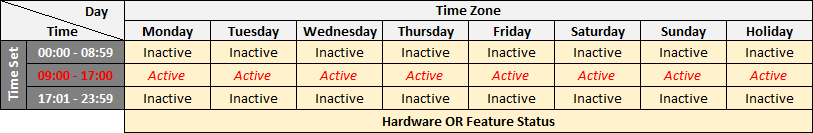
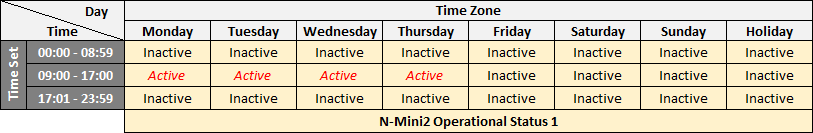
GitBook: [master] one page and 6 assets modified

diff --git a/time-set-and-time-zone/README.md b/time-set-and-time-zone/README.md
@@ -17,29 +17,17 @@ This section will cover the aspects of setting up Time Set and Time Zone. **Syst
 Time Set and Time Zone are two important settings within the Entrypass Platform1 Server System, where it will dictate the **'**_**daily**_ **time frame'** for operation on 'Feature' and 'Hardware' connected to the Control Panel. 
 
 * Time Zone: specify operational Day \(Monday to Sunday inc. Holiday\)
-* Time Set: specify operational Time \(minutes and hours\)
+* Time Set: specify operational Time \(Time Intervals in minutes and hours\)
 
-![Image 1](../.gitbook/assets/presentation2.png)
+![Image 1](../.gitbook/assets/presentation2%20%281%29.png)
 
-All 'Features' and 'Hardware' will be assigned and monitored with a Time Zone, by the Control Panel \(Image 1\). Each **Time Zone** \(e.g. TZ1\) will specify the **days** to operate while **within each day**, it will contain references to **Time Set** where it will specify the **time** to operate. 
-
-It is important to note that:
+All 'Features' and 'Hardware' will be assigned and monitored by the Control Panel \(Image 1\) using Time Zone. Each **Time Zone** \(e.g. TZ1\) will specify the **days** to operate while **within each day**, it will contain a reference to **Time Set** specifying the **time \(in intervals\)** to operate. Therefore, it is important to note that:
 
 {% hint style="danger" %}
-The Control Panel will monitor and operate all Features and Hardware connected **according to the Time Zone assigned to to each Feature or Hardware.** 
+The Control Panel will **TURN ON OR OFF**_**,**_ **all Features and Hardware connected according to Time Zone assigned.** 
 {% endhint %}
 
-In order for systeTo express the above statement in graphical format, refer to table below:
-
-Operation Time
-
-![Image 3](../.gitbook/assets/tstz3.png)
-
-**When a Hardware OR Feature is assigned with Time Zone from Image 2, it's DAILY active operating hours will be 09:00 to 17:00.** 
-
-\*\*\*\*
-
-## Explanation on Time Set and Time Zone parameters
+## Description on Time Set and Time Zone settings
 
 ### Time Set Settings
 
@@ -49,35 +37,74 @@ Operation Time
 2. **Description:** This is the column where you can input the description of a newly created Time Set.
 3. **Interval:** This column describes '**Time Range'.** The range can start from **00:00 \(12.00am\) to 23:59 \(11.59pm\)** while you can set up to 3 different time ranges' within a single Time Set. 
 
-Time Set comes with two default settings:
+Time Set comes with the following settings:
 
-{% hint style="info" %}
-* Time Set 0 = Not Active \(default and non-editable within the system\)
-* Time Set 1 = 24 Hours Active \(default and non-editable within the system\)
-* Time Set 2 and above = User configurable
-{% endhint %}
+| Time Set | Description | Status | Information |
+| :--- | :--- | :--- | :--- |
+| 0 | Not Active | Default | This is a default setting and not user configurable. **Any day in a Time Zone assigned with this Time Set will render that day 'not active '.**  |
+| 1 | 24 Hours Active | Default | This is a default setting and not user configurable. **Any day in a Time Zone assigned with this Time Set will render that day 'active at all times' \(ie. 24 hours a day\).** |
+| 2 and above | User Configurable | User Configurable | Time Set settings can only be configured by users from Time Set 2 onward. |
 
 ### Time Zone Settings
 
-![](../.gitbook/assets/time-zone-1.png)
+![](../.gitbook/assets/time-zone-1%20%281%29.png)
 
 1. **Name:** The name of Time Sets are numerical and automatically assigned when a new Time Set is created.
 2. **Description:** This is the column where you can input the description of a created Time Set.
 3. **Days:** This column describes **'Days' \(expressed in a single week\).** This range starts from **Monday to Sunday AND Public Holidays.** 
+4. **Time Set:** This section will contain references to Time Set which will dictate the operating hours for the system.
 
-Time Zone comes with two default settings:
+Time Zone comes with the following settings:
+
+| Time Zone | Description | Status | Information |
+| :--- | :--- | :--- | :--- |
+| 0 | Not Active | Default | This is a default setting and not user configurable. **Any Hardware or Feature assigned with this Time Zone will be rendered 'not active ' \(ie. Turned Off\).**  |
+| 1 | 24 Hours Active | Default | This is a default setting and not user configurable. **Any Hardware or Feature assigned with this Time Zone will be rendered 'active at all times' \(ie. 24 hours a day\).** |
+| 2 and above | User Configurable | User Configurable | Time Zone settings can only be configured by users from Time Zone 2 onwards. |
+
+## System at Work
+
+This section will demonstrate how Time Zone and Time Set working together to control operation day and time. The following steps will always apply when customising your day and time operational requirements for any Hardware or Feature.
 
 {% hint style="info" %}
-* Time Zone 0 = Not Active \(default and non-editable within the system\)
-* Time Zone 1 = 24 Hours Active \(default and non-editable within the system\)
-* Time Zone 2 & above = User configurable
+* STEP 1 \(Create Time Set\): Always create the required Time Set in the system and specify operational times.
+* STEP 2 \(Create Time Zone\): At the Time Zone section, you will specify what are the operational times for each day within the week.
+* STEP 3 \(Link Time Zone\): Go to any hardware or feature and link that feature to the Time Zone created to activate or customise its operational day and time.
 {% endhint %}
 
+### Scenario
+
+Consider a hypothetical scenario below for Hardware \(N-Mini2 Reader\) setting and its operation matrix.
+
+{% hint style="info" %}
+N-Mini2 reader operational requirements:
+
+* Operating Days: Monday - Friday \(excluding Saturday, Sunday and Holidays\)
+* Operating Time 1: 09:00 - 17:00 \(Monday - Thursday\)
+* Operating Time 2: 09:00 - 18:00 \(Friday\)
+{% endhint %}
+
+![](../.gitbook/assets/tstz3.png)
+
+![](../.gitbook/assets/tstz4.png)
+
+To achieve the operational requirements above, the Time Set and Time Zone settings will be as following:
+
+#### STEP 1 \(Create Time Set\)
+
+![](../.gitbook/assets/time-zone-2.png)
+
+As mentioned above, Time Set must be created in order to allow Time Zone to create a link \(reference\) to Time Set to obtain operational time. As there are two different operational times, then there will be a requirement to create two different sets of Time Set. One important note to remember is:
+
+{% hint style="info" %}
+Multiple
+{% endhint %}
+
+#### STEP 2 \(Create Time Zone\)
 
 
-## Infographic Illustration
 
-![](../.gitbook/assets/tstz.png)
+#### Time Zone Settings
 
 For illustration, when any Hardware OR Feature that is being assigned with **'Time Zone 2'** parameter, the operating day and time of that Hardware OR Feature will be as follows:
 
